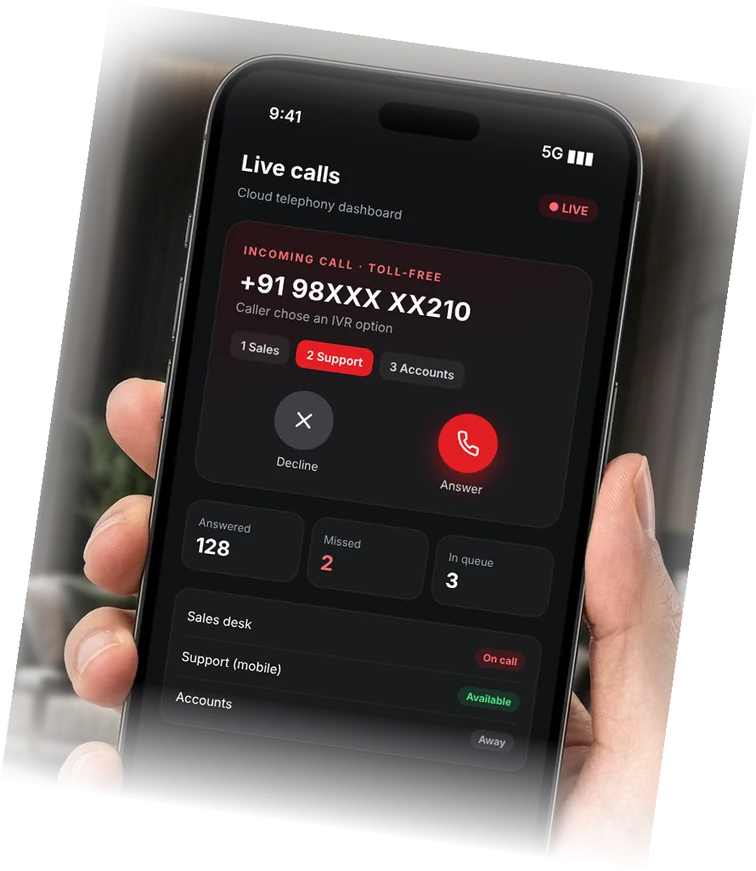
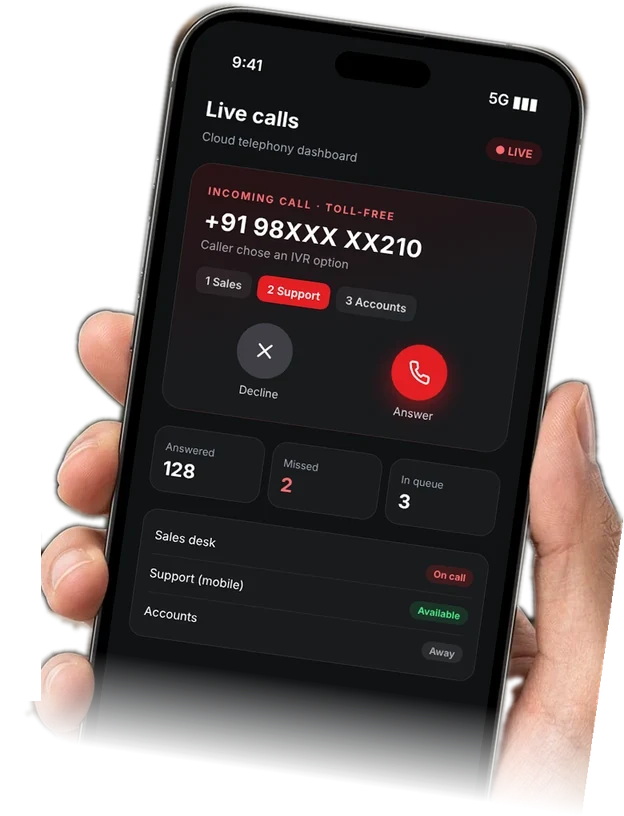
Smartflo hero: clean phone cutout placed beside the text, clear of the menu and breadcrumbs
Claude-Session: https://claude.ai/code/session_01HxaosALeCz3yRqoz4XshfD

diff --git a/src/components/CloudTelephonyPage.tsx b/src/components/CloudTelephonyPage.tsx
@@ -444,7 +444,7 @@ export default function CloudTelephonyPage({ service, heading }: { service: Serv
               aria-hidden="true"
               className="lg:hidden w-full h-full object-cover object-[80%_center]"
             />
-            <div className="absolute inset-0 bg-black/60 lg:hidden" />
+            <div className="absolute inset-0 bg-black/65 lg:hidden" />
             <div className="hidden lg:block absolute -right-24 top-1/4 w-[620px] h-[620px] rounded-full bg-[#E31E24]/20 blur-[130px]" />
             <div className="hidden lg:block absolute left-[45%] -bottom-40 w-[520px] h-[420px] rounded-full bg-[#E31E24]/10 blur-[120px]" />
           </div>
@@ -478,9 +478,9 @@ export default function CloudTelephonyPage({ service, heading }: { service: Serv
               src="/images/services/smartflo-cloud-telephony-phone.webp"
               alt="Smartflo cloud telephony on a mobile phone: incoming toll-free call with IVR choice and answer button"
               fetchPriority="high"
-              width={756}
-              height={871}
-              className="hidden lg:block absolute right-[300px] xl:right-[340px] -bottom-10 h-[290px] w-auto pointer-events-none select-none"
+              width={624}
+              height={816}
+              className="hidden lg:block absolute left-[700px] -bottom-10 h-[250px] w-auto pointer-events-none select-none drop-shadow-[0_20px_40px_rgba(0,0,0,0.6)]"
             />
             <div className="flex flex-col items-start">
               <div className="flex flex-col items-start text-left max-w-3xl">
